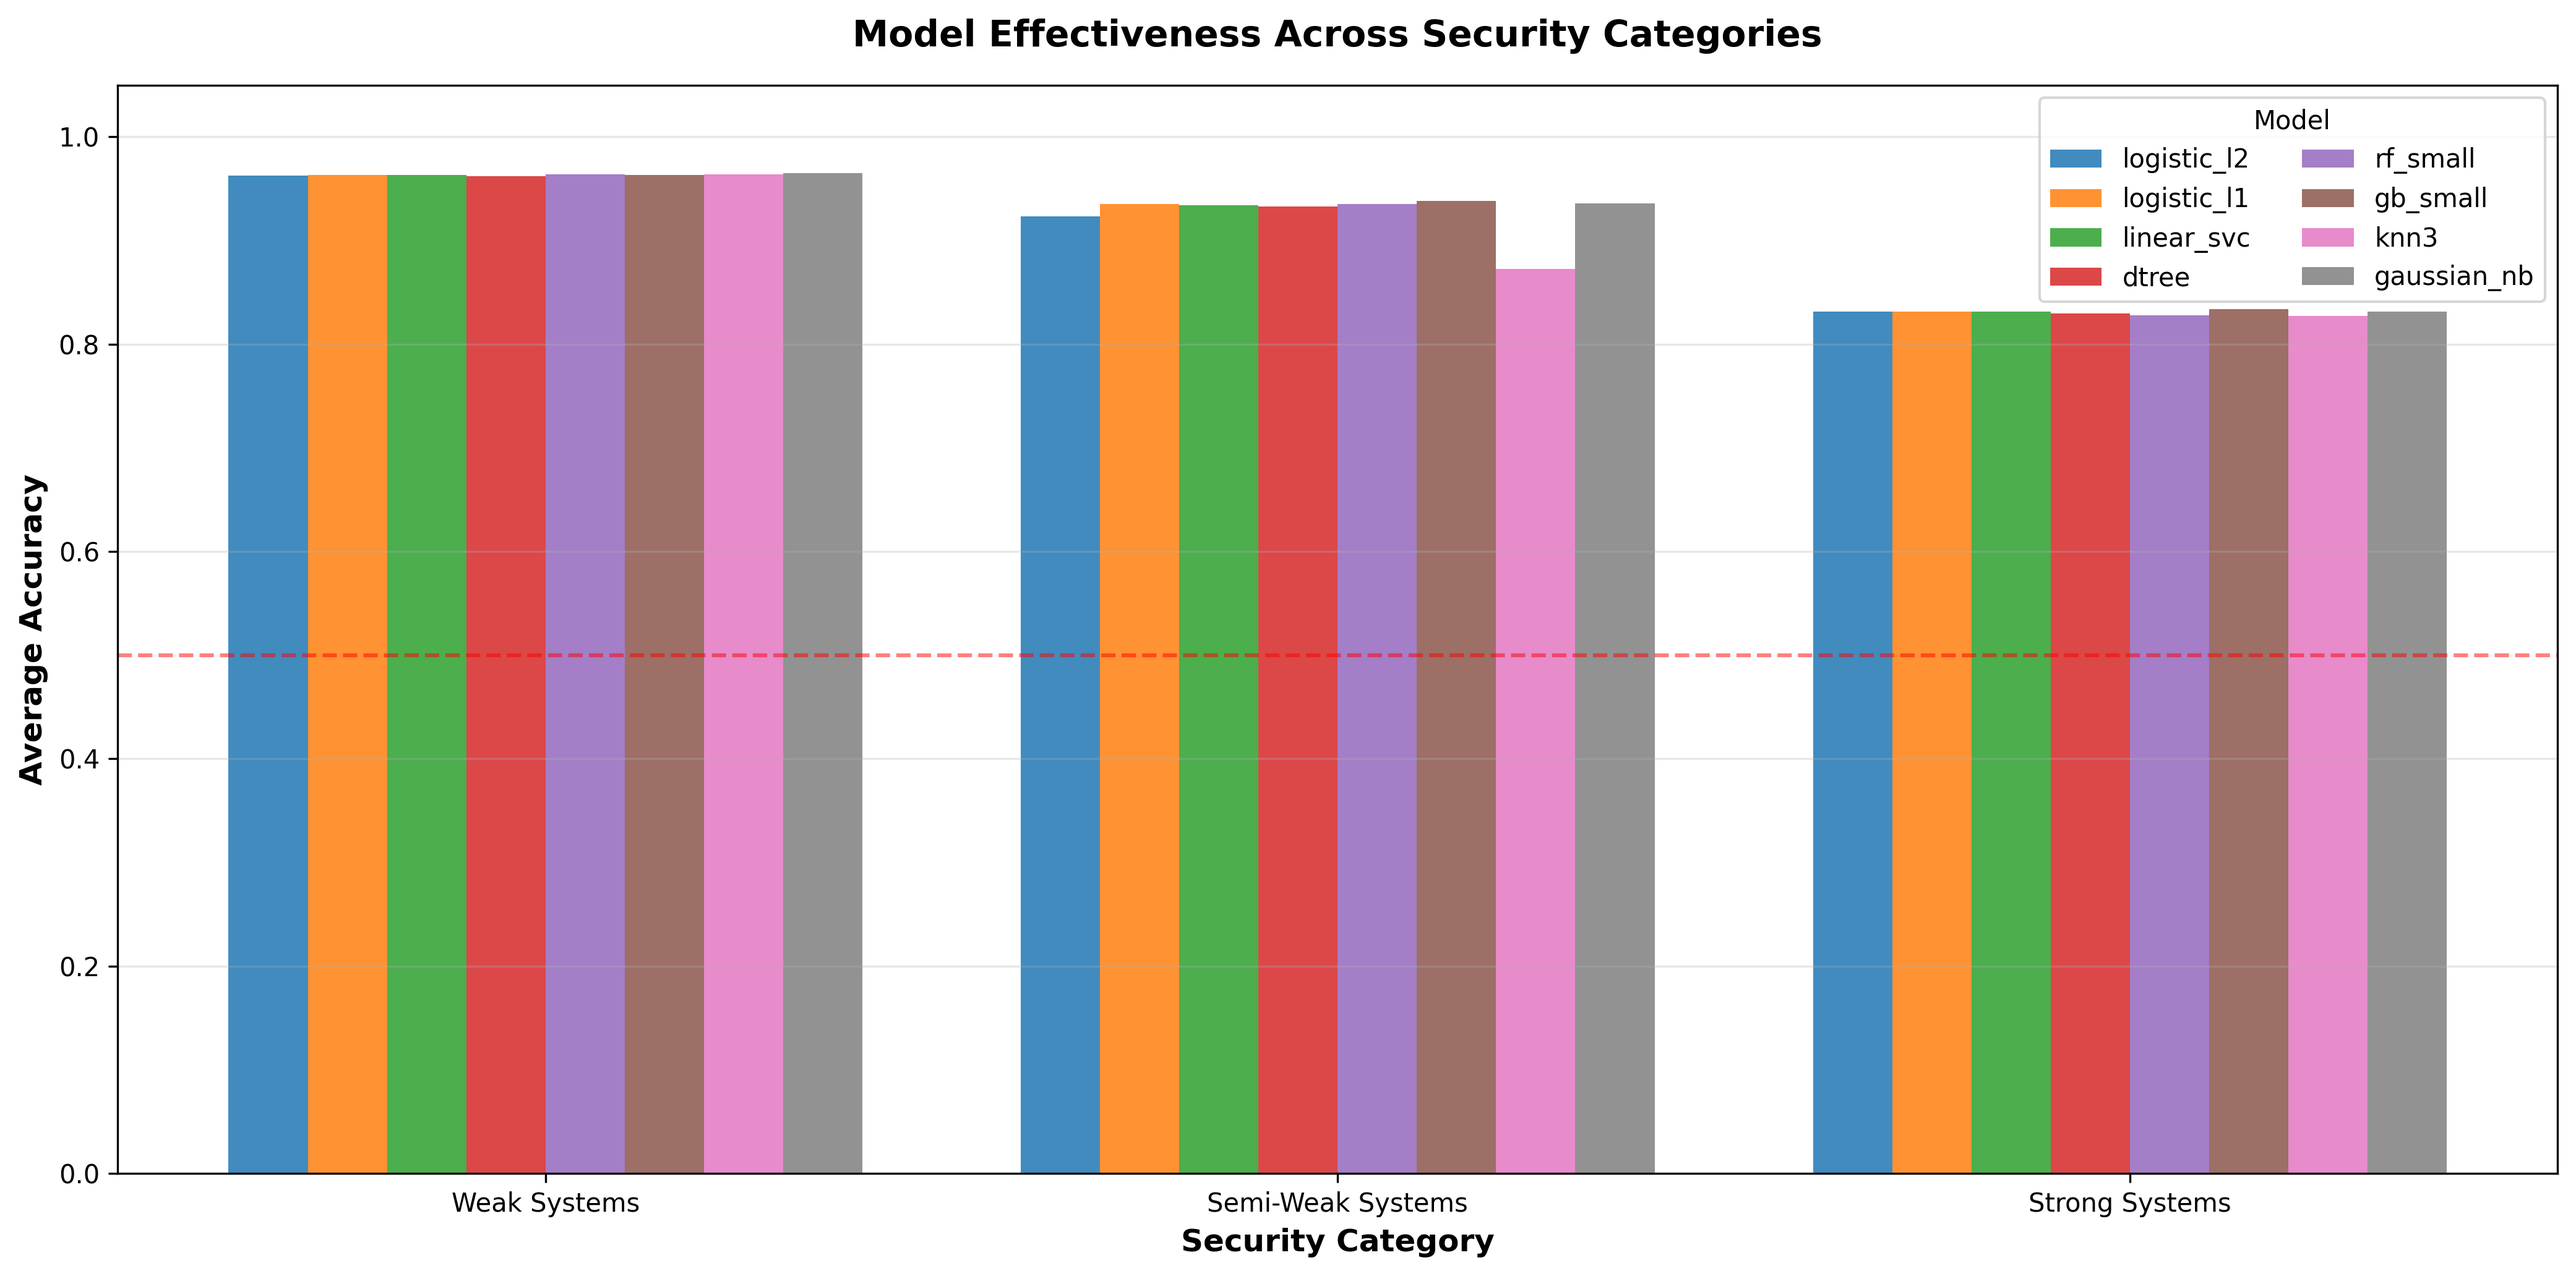
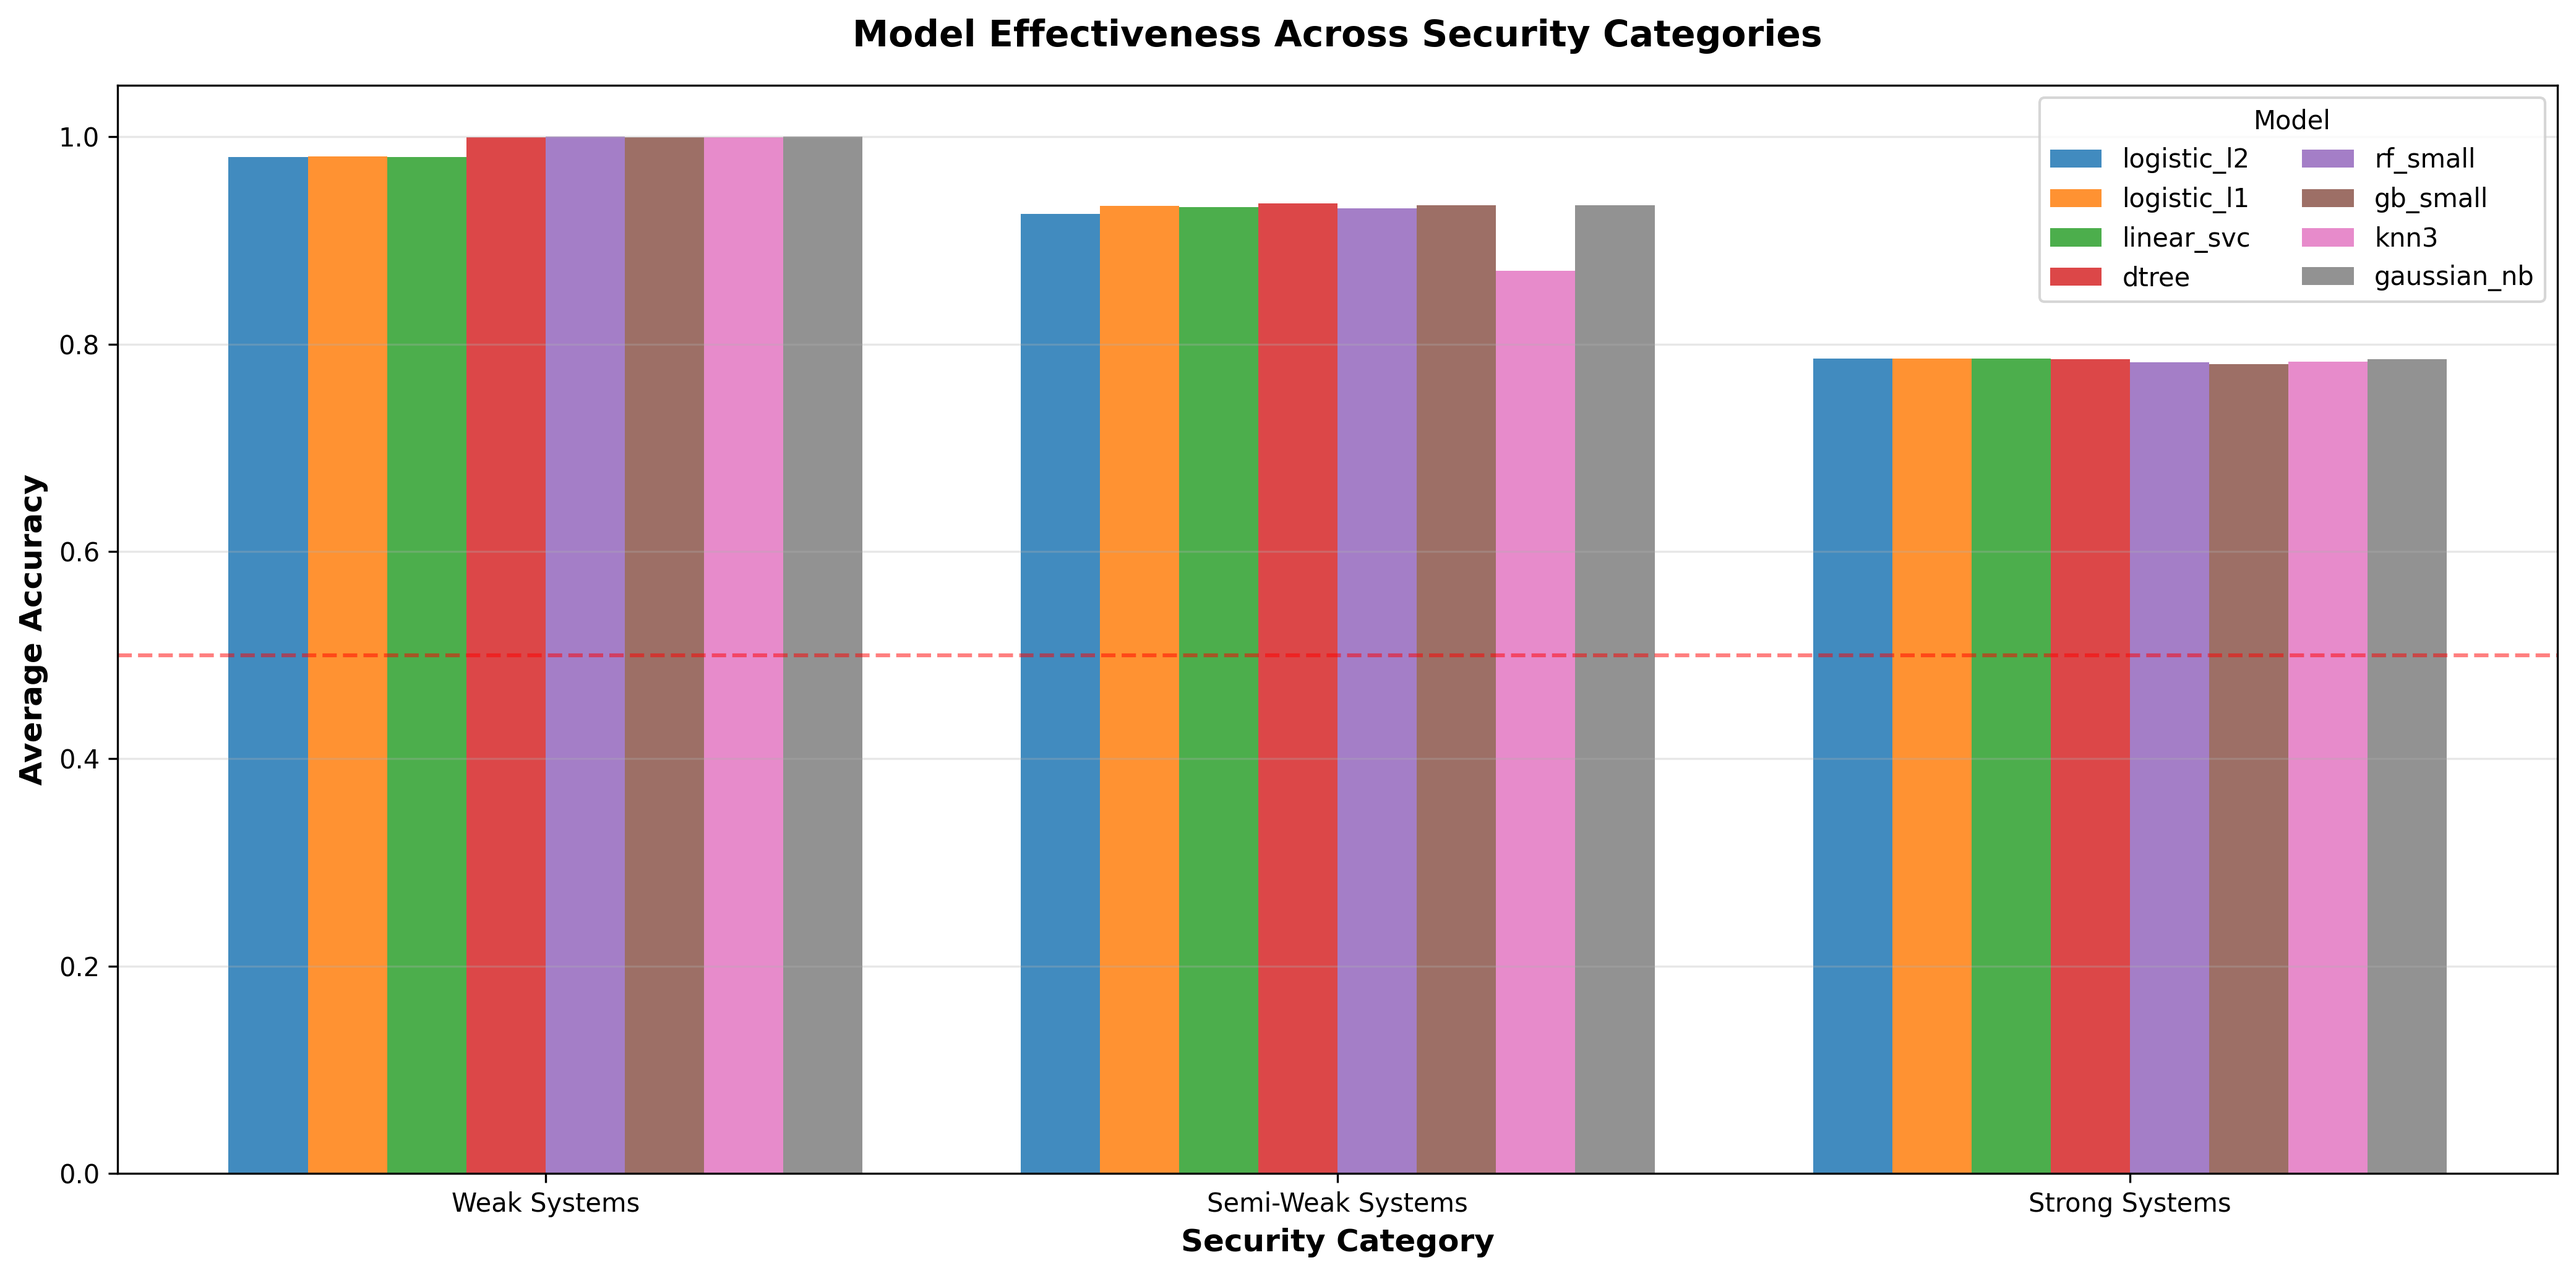
heatmap

Changed region(s): [[0.6868, 0.2171, 0.9678, 0.3101], [0.0937, 0.093, 0.3434, 0.155], [0.5307, 0.155, 0.562, 0.186]]

diff --git a/lightweight_bench.py b/lightweight_bench.py
@@ -26,40 +26,21 @@ from sklearn.metrics import accuracy_score
 
 # Categorize systems by security strength
 WEAK_SYSTEMS = [
-    'No Encryption',
-    'One-Time Pad',
-    'Constant XOR',
-    'Toy Fixed XOR',
-    'Toy Substitution',
-    'Toy Permutation',
-    'Toy 1-Round Feistel',
-    'AES CTR Fixed Nonce',
-    'Toy Caesar',
-    'Toy Repeating XOR',
-    'Toy Byte Rotate',
-    'Toy Mask HighNibble',
-    'Toy LFSR Stream',
+    'No Encryption', 'Constant XOR', 'Toy Fixed XOR',
+    'Toy Substitution', 'Toy Permutation', 'Toy 1-Round Feistel',
+    'AES CTR Fixed Nonce', 'Toy Caesar', 'Toy Repeating XOR',
+    'Toy Byte Rotate', 'Toy Mask HighNibble', 'Toy LFSR Stream',
     'Toy 2-Round Feistel',
 ]
 
 SEMI_WEAK_SYSTEMS = [
-    'Semi Reduced Feistel',
-    'Semi Partial Mask',
-    'Semi Truncated AES',
-    'Semi Nonce Mix',
-    'Semi LFSR Long',
-    'Semi Key Rotation',
-    'DES NonDet',
-    'AES CTR Reduced',
+    'Semi Reduced Feistel', 'Semi Partial Mask', 'Semi Truncated AES',
+    'Semi Nonce Mix', 'Semi LFSR Long', 'Semi Key Rotation',
+    'DES NonDet', 'AES CTR Reduced',
 ]
 
 STRONG_SYSTEMS = [
-    'DES',
-    'AES ECB',
-    'AES CTR',
-    'RSA Plain',
-    'RSA OAEP',
-    'RSA OAEP Reused',
+    'DES', 'AES ECB', 'AES CTR', 'RSA Plain', 'RSA OAEP', 'RSA OAEP Reused','One-Time Pad'
 ]
 
 MODELS = {

diff --git a/indcpa.py b/indcpa.py
@@ -509,21 +509,21 @@ def plot_indcpa_mine_analysis(results_summary):
     from matplotlib.gridspec import GridSpec
     
     WEAK_SYSTEMS = [
-        'No Encryption', 'One-Time Pad', 'Constant XOR', 'Toy Fixed XOR',
+        'No Encryption', 'Constant XOR', 'Toy Fixed XOR',
         'Toy Substitution', 'Toy Permutation', 'Toy 1-Round Feistel',
         'AES CTR Fixed Nonce', 'Toy Caesar', 'Toy Repeating XOR',
         'Toy Byte Rotate', 'Toy Mask HighNibble', 'Toy LFSR Stream',
         'Toy 2-Round Feistel',
     ]
-    
+
     SEMI_WEAK_SYSTEMS = [
         'Semi Reduced Feistel', 'Semi Partial Mask', 'Semi Truncated AES',
         'Semi Nonce Mix', 'Semi LFSR Long', 'Semi Key Rotation',
         'DES NonDet', 'AES CTR Reduced',
     ]
-    
+
     STRONG_SYSTEMS = [
-        'DES', 'AES ECB', 'AES CTR', 'RSA Plain', 'RSA OAEP', 'RSA OAEP Reused',
+        'DES', 'AES ECB', 'AES CTR', 'RSA Plain', 'RSA OAEP', 'RSA OAEP Reused','One-Time Pad'
     ]
     
     systems, accs, mis = zip(*results_summary)

diff --git a/heavy_bench.py b/heavy_bench.py
@@ -20,7 +20,7 @@ from torch.utils.data import TensorDataset, DataLoader
 
 
 WEAK_SYSTEMS = [
-    'No Encryption', 'One-Time Pad', 'Constant XOR', 'Toy Fixed XOR',
+    'No Encryption', 'Constant XOR', 'Toy Fixed XOR',
     'Toy Substitution', 'Toy Permutation', 'Toy 1-Round Feistel',
     'AES CTR Fixed Nonce', 'Toy Caesar', 'Toy Repeating XOR',
     'Toy Byte Rotate', 'Toy Mask HighNibble', 'Toy LFSR Stream',
@@ -34,7 +34,7 @@ SEMI_WEAK_SYSTEMS = [
 ]
 
 STRONG_SYSTEMS = [
-    'DES', 'AES ECB', 'AES CTR', 'RSA Plain', 'RSA OAEP', 'RSA OAEP Reused',
+    'DES', 'AES ECB', 'AES CTR', 'RSA Plain', 'RSA OAEP', 'RSA OAEP Reused','One-Time Pad'
 ]
 
 HEAVY_MODELS = ['rf_large', 'hgb', 'svc_rbf', 'deep_mlp', 'cnn1d']
